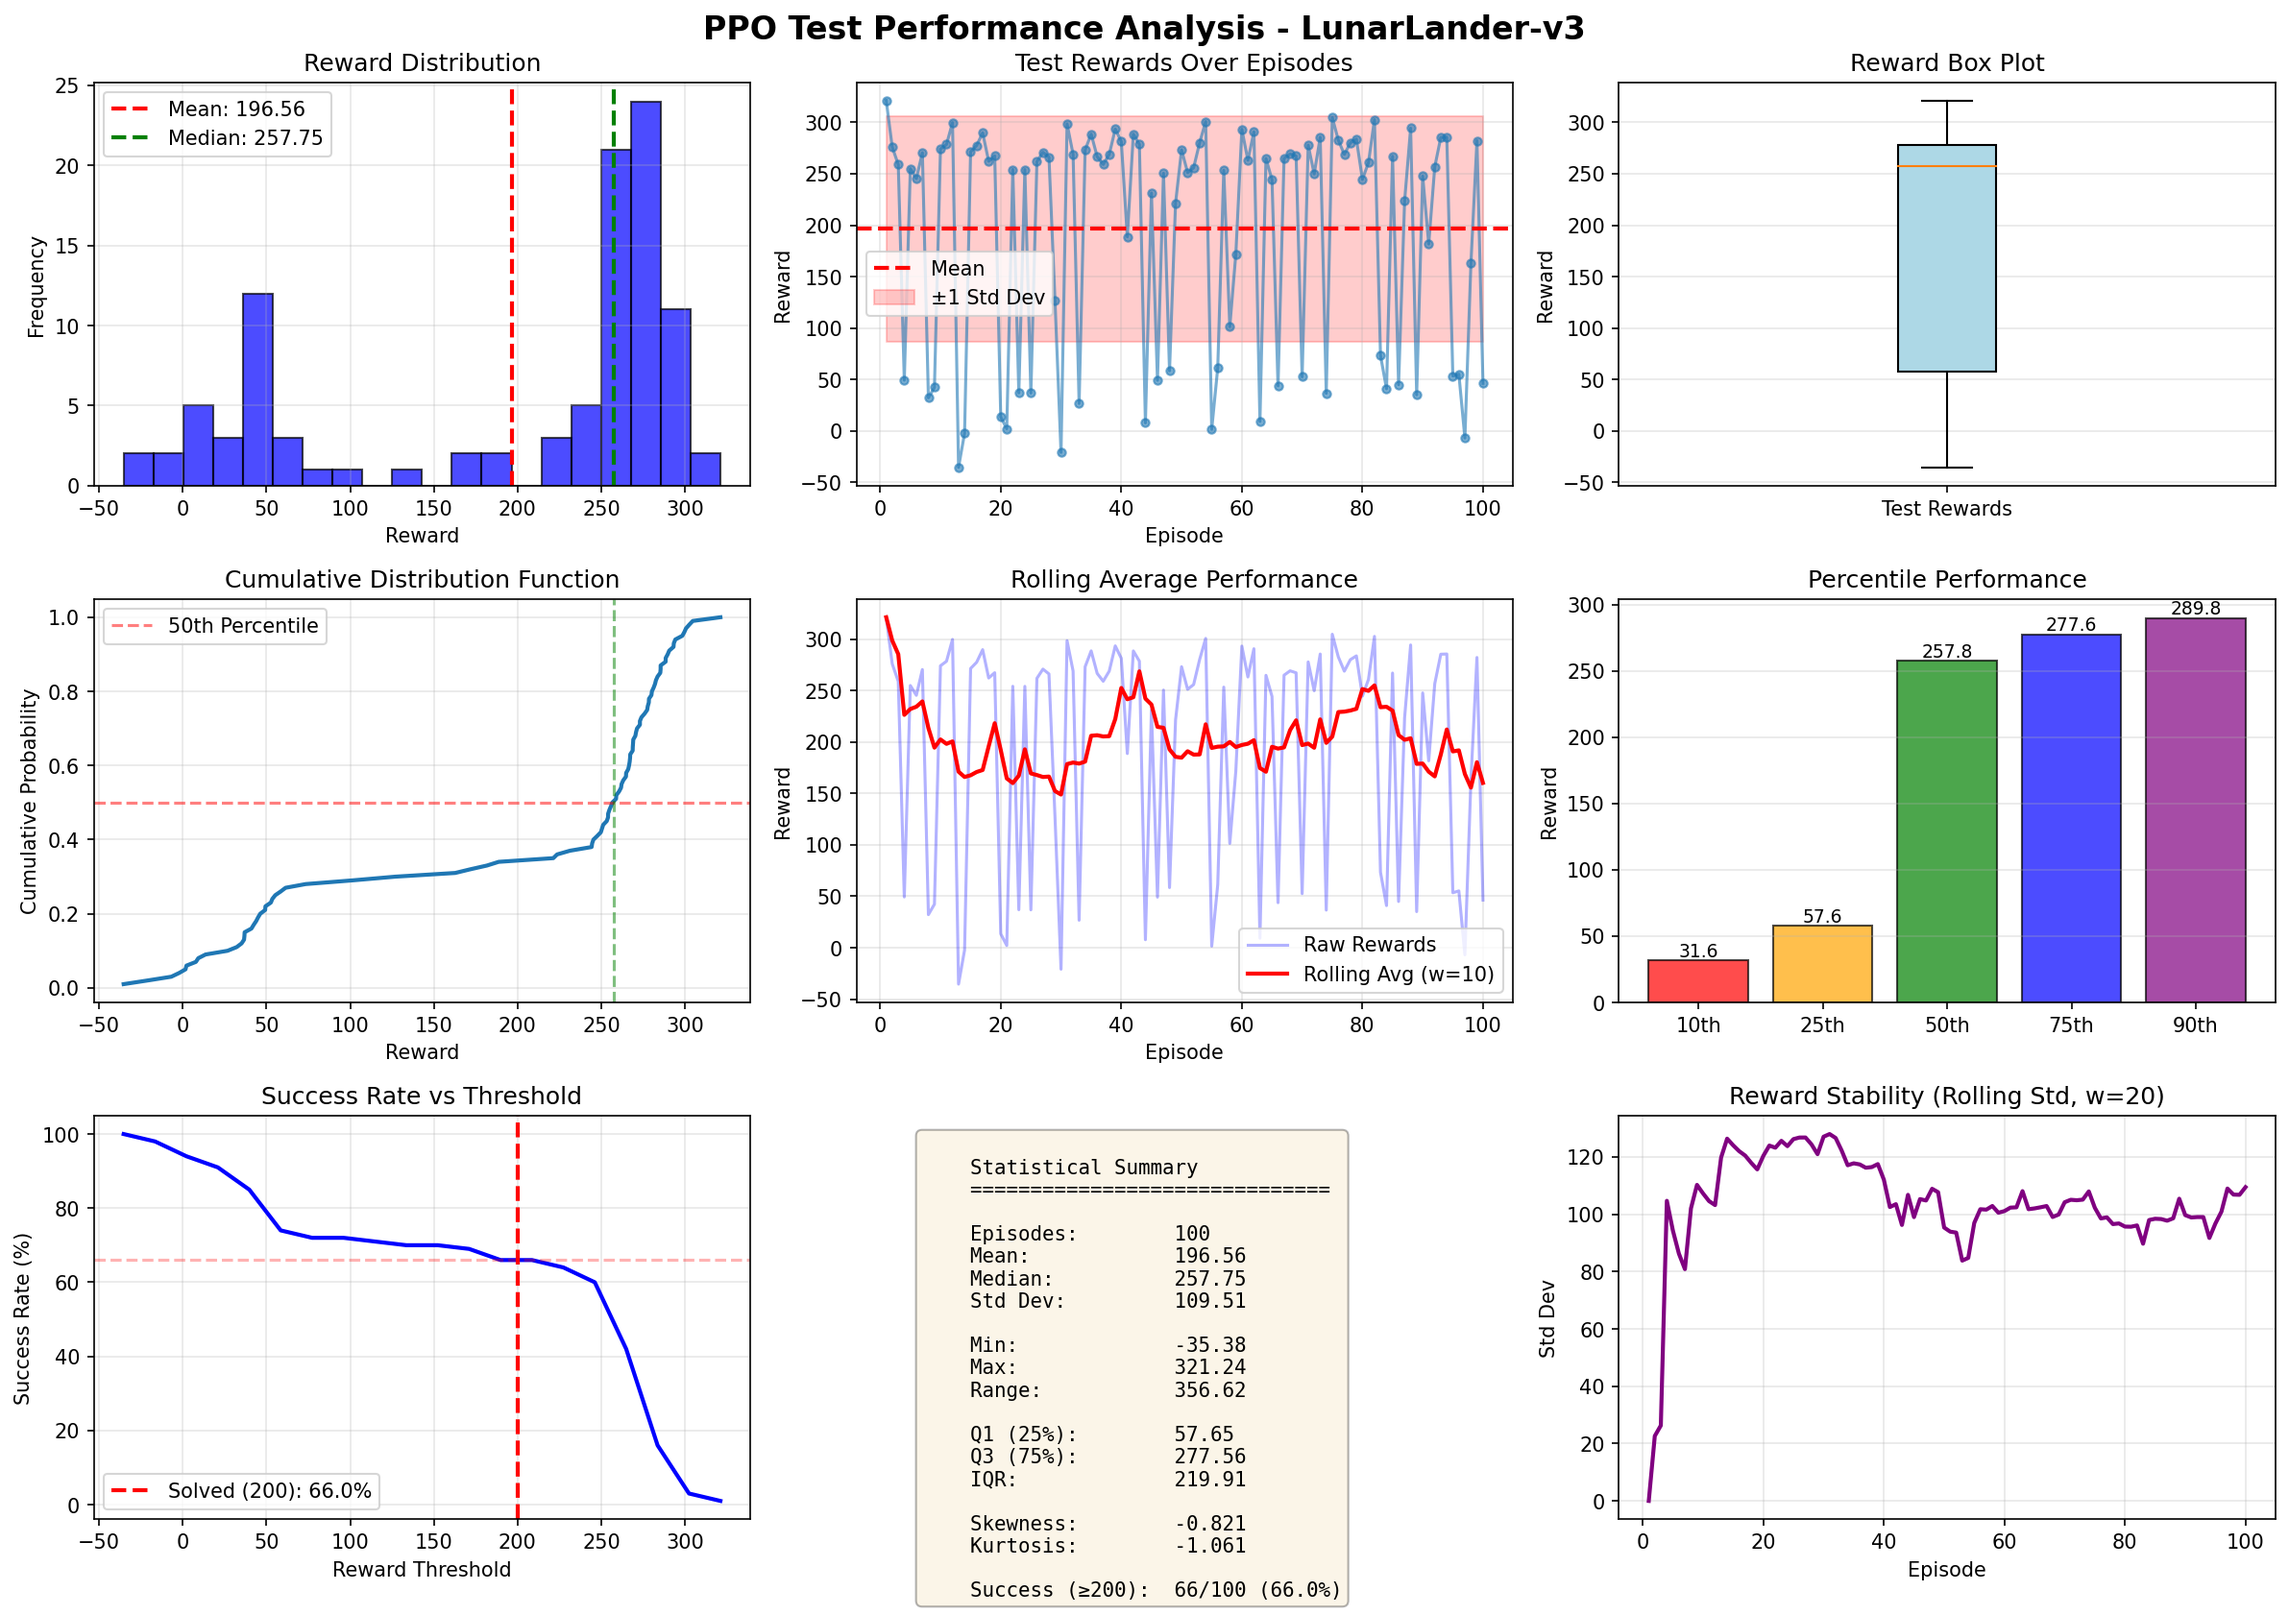
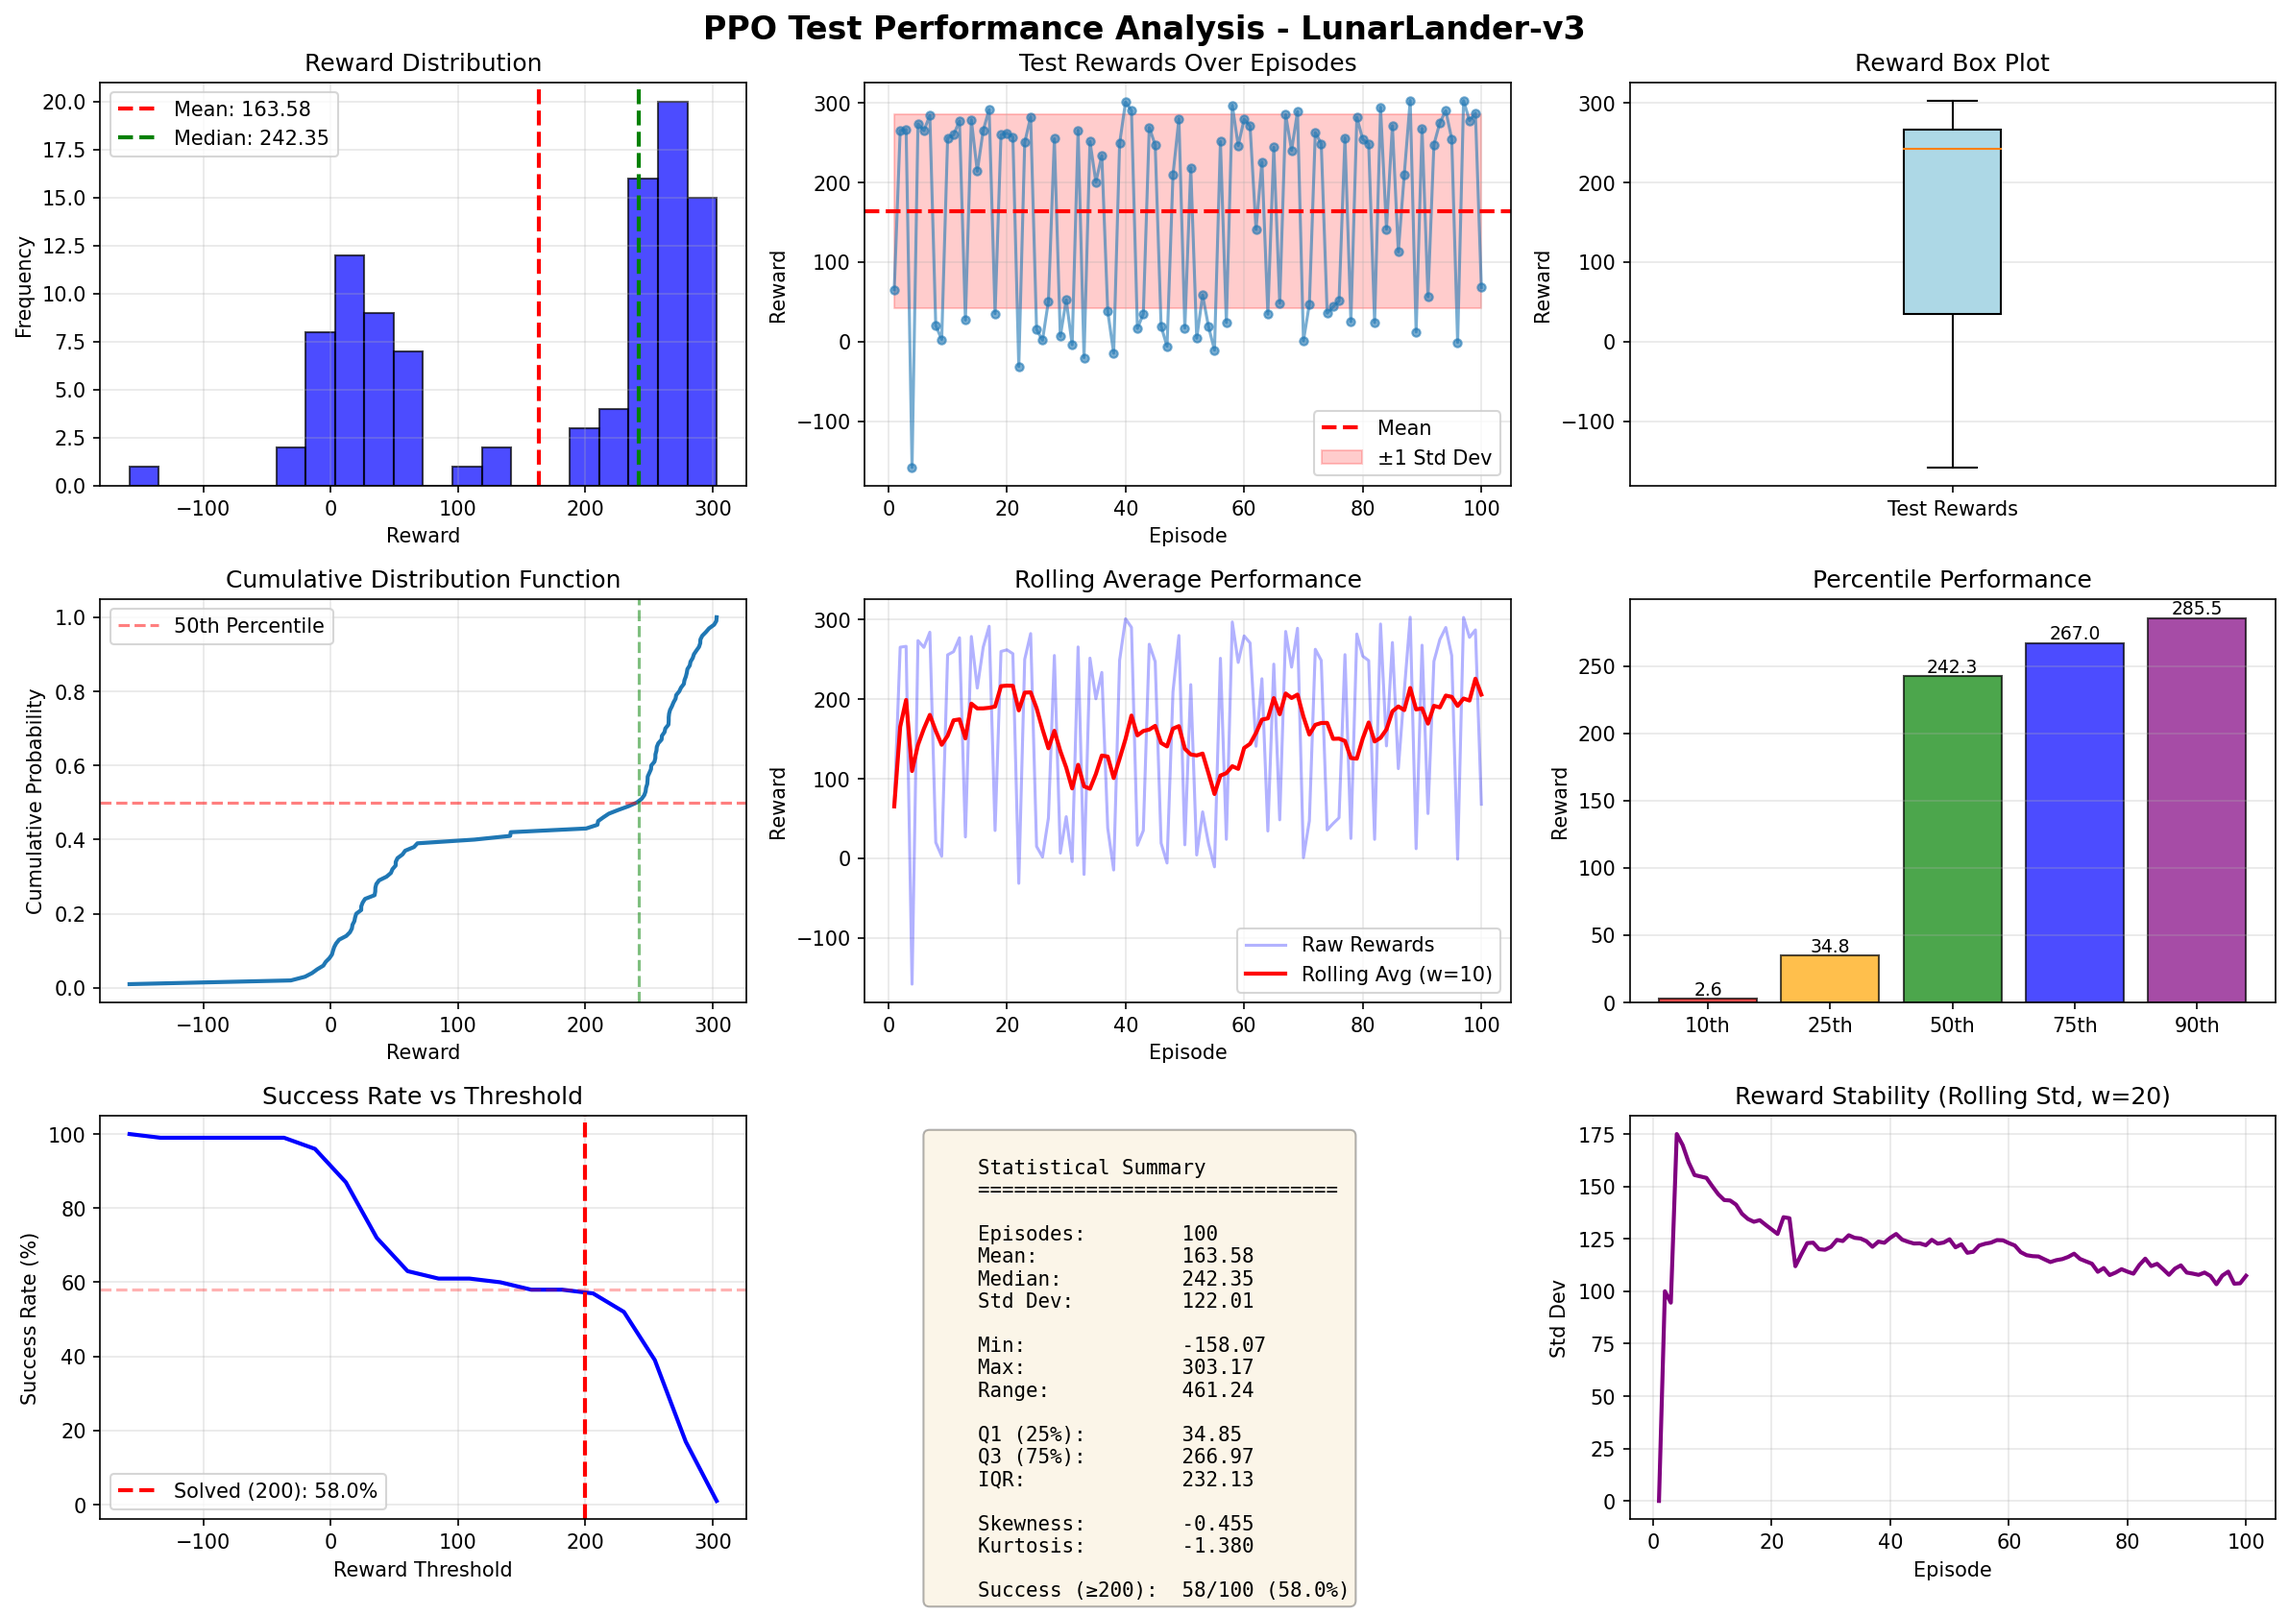
best car hyperparameters

diff --git a/ASS4/train_ass4.py b/ASS4/train_ass4.py
@@ -115,7 +115,7 @@ def default_config_for_env(env_name):
     elif env_name == 'CarRacing-v3':
         return {
             # "Exploration Booster" config for CarRacing-v3 - Escape negative reward trap
-            'learning_rate': 1e-3,        # Increased from 3e-4 for faster learning
+            'learning_rate': 4e-4,        # Increased from 3e-4 for faster learning
             'lr_decay': False,            # No LR decay for CarRacing
             'gamma': 0.99,
             'gae_lambda': 0.95,
@@ -357,18 +357,21 @@ def train(env_name, algo, episodes, save_dir='ASS4/saved_models', use_wandb=Fals
 
     env.close()
     
-    # Save final model only if no checkpoint was saved during training
-    if not checkpoint_saved:
-        final_save_path = os.path.join(save_dir, f"{algo}_{env_name}_ass4_final.pth")
-        agent.save(final_save_path)
-        print(f"No checkpoint reached Avg50 >= 200. Final model saved to {final_save_path}")
-        if use_wandb and (wandb is not None):
-            try:
-                wandb.save(final_save_path)
-            except Exception:
-                print("Warning: failed to save final model to wandb")
+    # Always save final model at end of training
+    final_save_path = os.path.join(save_dir, f"{algo}_{env_name}_final_avg50_{recent_avg:.2f}.pth")
+    agent.save(final_save_path)
+    print(f"Training complete. Final model saved to {final_save_path}")
+    if use_wandb and (wandb is not None):
+        try:
+            wandb.save(final_save_path)
+        except Exception:
+            print("Warning: failed to save final model to wandb")
+    
+    if checkpoint_saved:
+        print(f"Best checkpoint also saved with Avg50: {best_avg50:.2f}")
+        best_model_path = os.path.join(save_dir, f"{algo}_{env_name}_avg50_{best_avg50:.2f}.pth")
     else:
-        print(f"Best checkpoint already saved with Avg50: {best_avg50:.2f}")
+        best_model_path = None
     
     if use_wandb and (wandb is not None):
         try:
@@ -377,7 +380,7 @@ def train(env_name, algo, episodes, save_dir='ASS4/saved_models', use_wandb=Fals
             pass
     print("Training finished")
     
-    return agent, save_dir, algo, env_name, episode_rewards
+    return agent, save_dir, algo, env_name, episode_rewards, best_model_path
 
 
 def plot_training_rewards(episode_rewards, env_name, algo='PPO', save_dir='ASS4/saved_models'):
@@ -765,7 +768,7 @@ if __name__ == '__main__':
         print("Quality: Maintained through frame skip and smart termination")
         print("="*60 + "\n")
 
-    agent, save_dir, algo, env_name, episode_rewards = train(args.env, args.algo, args.episodes, use_wandb=args.use_wandb)
+    agent, save_dir, algo, env_name, episode_rewards, best_model_path = train(args.env, args.algo, args.episodes, use_wandb=args.use_wandb)
     
     # Plot training rewards
     plot_training_rewards(episode_rewards, env_name, algo, save_dir)
@@ -776,6 +779,13 @@ if __name__ == '__main__':
     # Test the trained model (with optional video recording)
     test_avg_reward = None
     if not args.skip_test:
+        # Load the best checkpoint if it exists, otherwise use the current agent
+        if best_model_path and os.path.exists(best_model_path):
+            print(f"\nLoading best checkpoint for testing: {best_model_path}")
+            agent.load(best_model_path)
+        else:
+            print("\nNo checkpoint saved during training. Testing with final model.")
+        
         test_rewards, test_avg_reward = test(
             agent, 
             env_name, 
